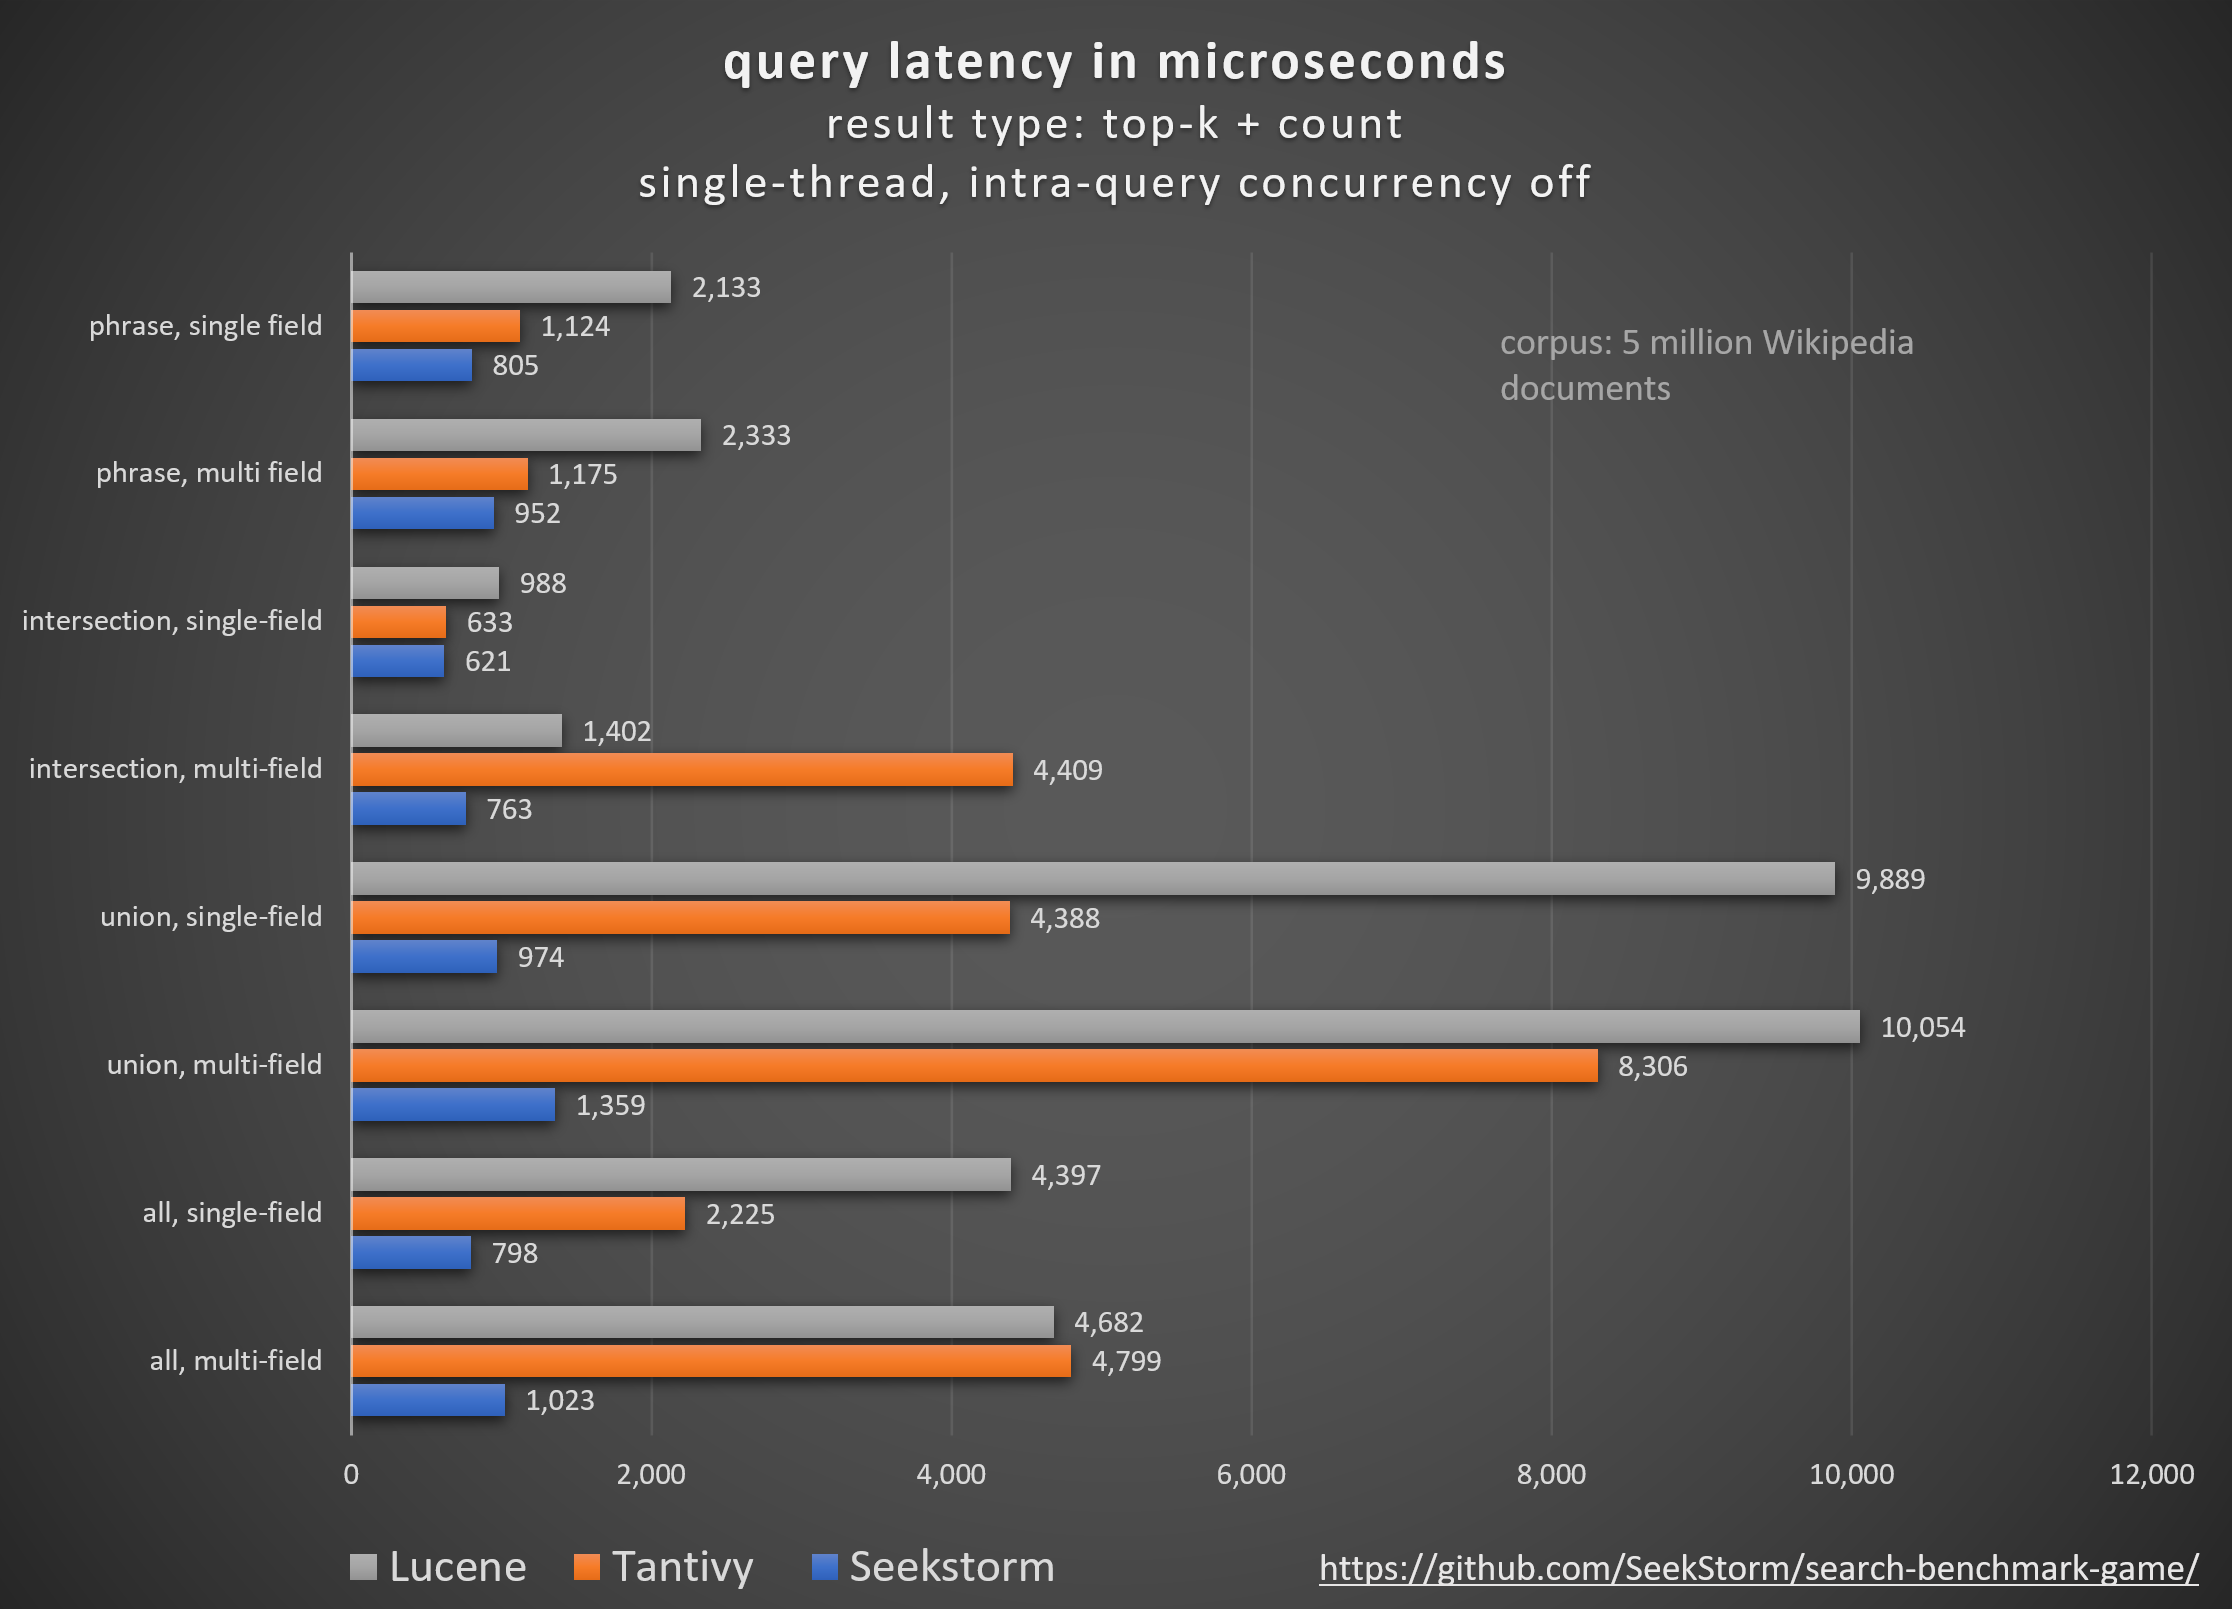
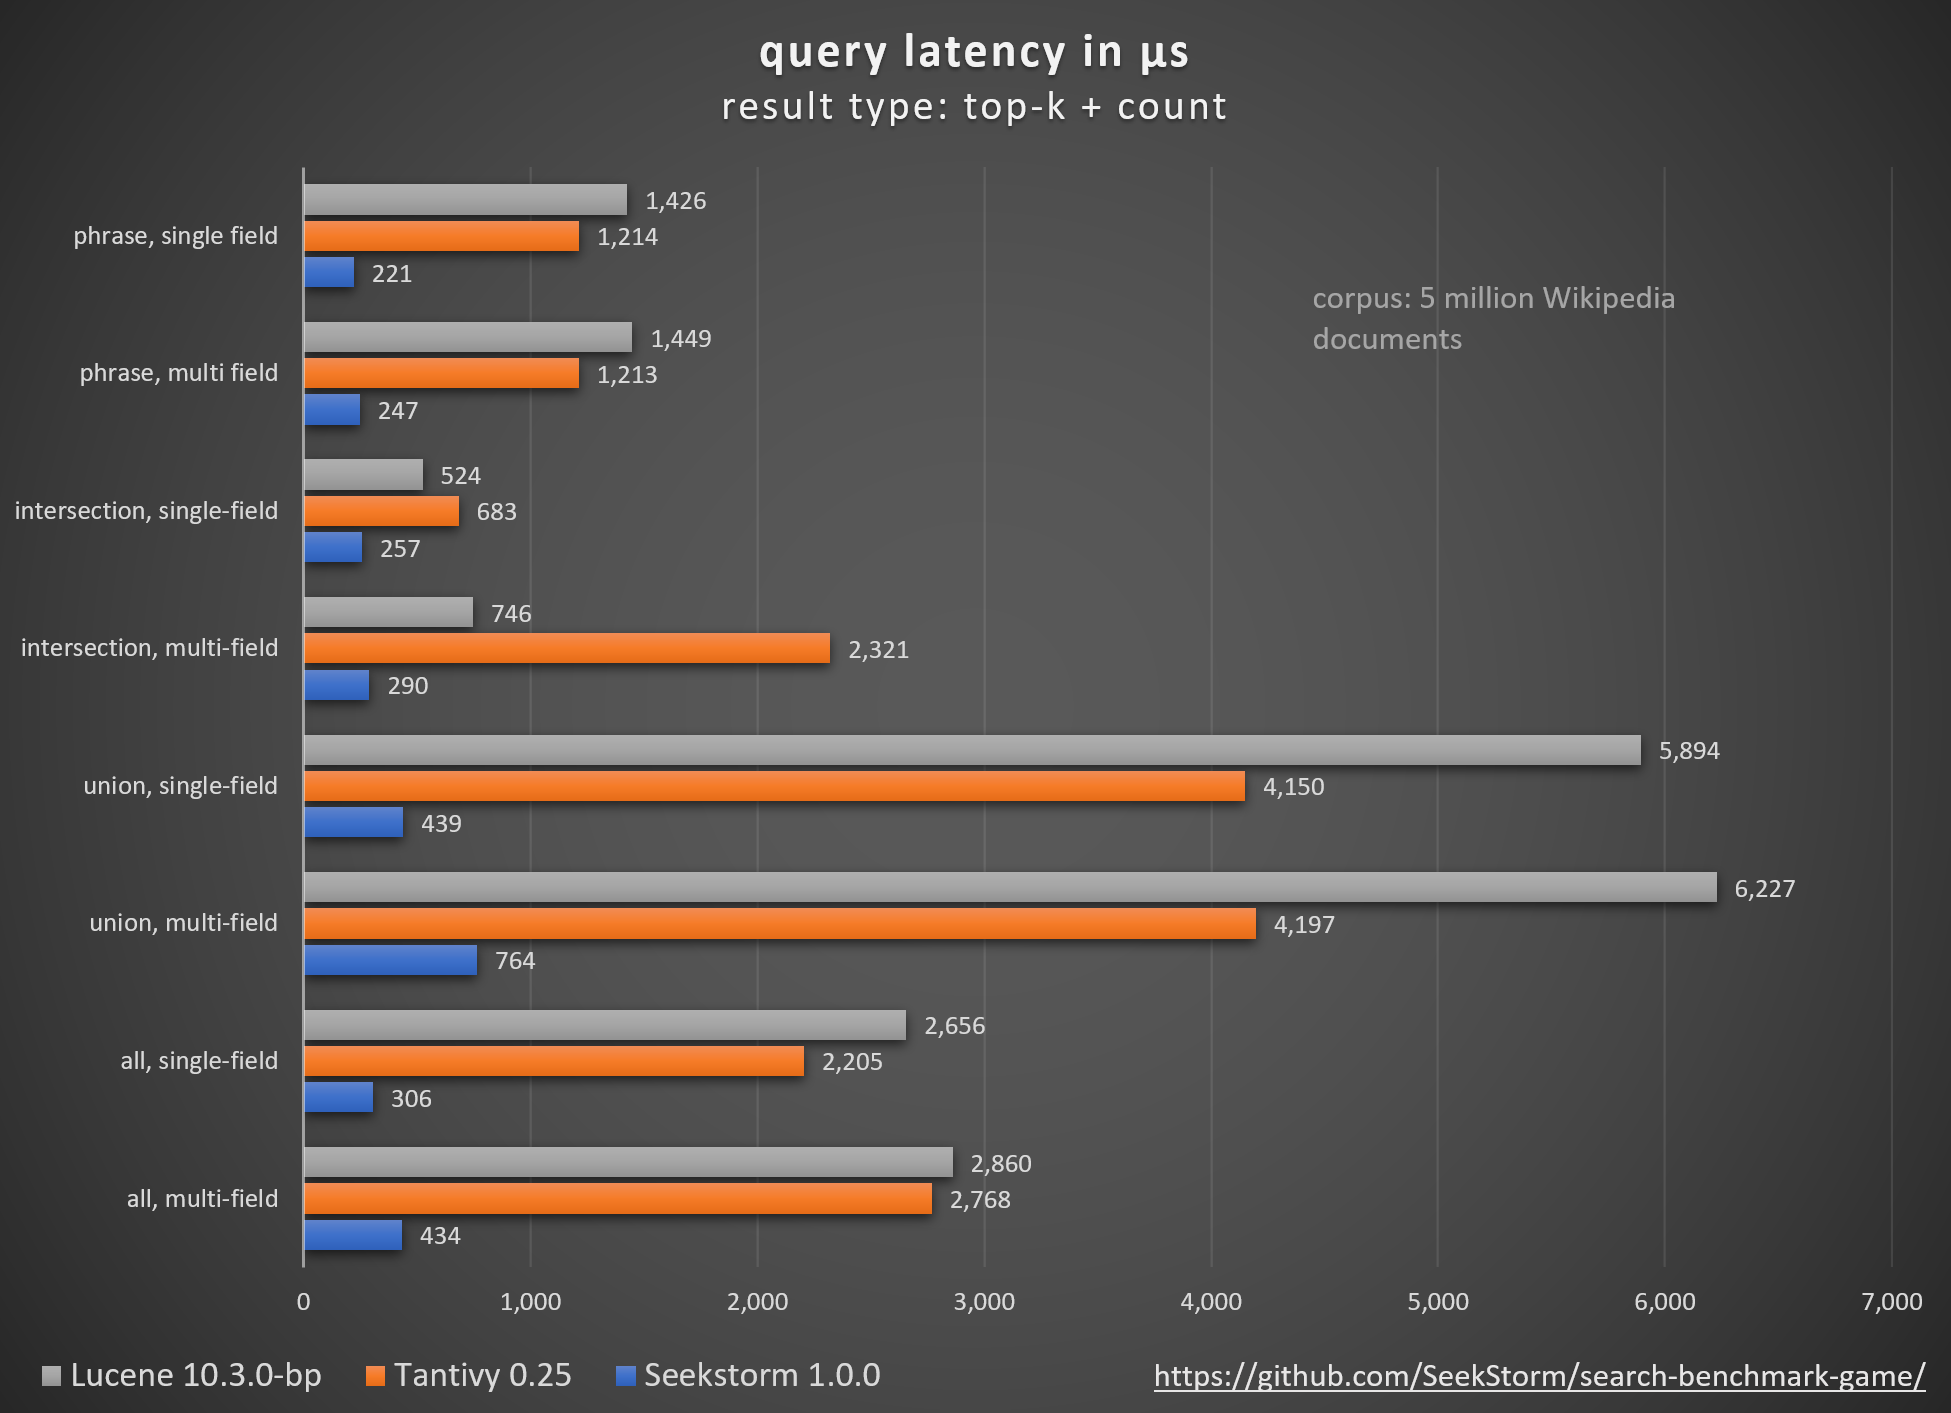
benchmark results updated

diff --git a/search-benchmark-game/README.md b/search-benchmark-game/README.md
@@ -16,6 +16,9 @@ Open-source search engine libraries (BM25 lexical search) are compared using the
 <img src="../assets/search_benchmark_game2.png" width="900" alt="Benchmark">
 <br>
 <br>
+<img src="../assets/search_benchmark_game3.png" width="900" alt="Benchmark">
+<br>
+<br>
 
 ### Multi field search vs. single field search
 
@@ -37,6 +40,11 @@ Btw., concatenating both fields before indexing is not a viable solution because
 
 ### About the results
 
-Results will vary, depending on your hardware, OS, concurrent OS activity, JVM, evironment temperature, query set, document corpus...
+This benchmark is not meant to be a leaderboard, but when every library is "lightning-fast" or  "blazingly fast", it is interesting to see how they stack up against each other. That is helpful not only for the users, 
+but also for the developers to assess unused optimization potential.
+
+Results will vary - depending on your hardware, OS, concurrent OS activity, JVM, environment temperature, query set, and document corpus...
 
 Before making any decisions, you should always replicate the tests on your infrastructure for your specific workload.
+
+Query latency is only one aspect of search - relevancy, functionality, scalability, and ease of use are equally important.

diff --git a/README.md b/README.md
@@ -16,6 +16,9 @@ Open-source search engine libraries (BM25 lexical search) are compared using the
 <img src="assets/search_benchmark_game2.png" width="900" alt="Benchmark">
 <br>
 <br>
+<img src="assets/search_benchmark_game3.png" width="900" alt="Benchmark">
+<br>
+<br>
 
 ### Multi field search vs. single field search
 
@@ -37,7 +40,12 @@ Btw., concatenating both fields before indexing is not a viable solution because
 
 ### About the results
 
-Results will vary, depending on your hardware, OS, concurrent OS activity, JVM, evironment temperature, query set, document corpus...
+This benchmark is not meant to be a leaderboard, but when every library is "lightning-fast" or  "blazingly fast", it is interesting to see how they stack up against each other. That is helpful not only for the users, 
+but also for the developers to assess unused optimization potential.
+
+Results will vary - depending on your hardware, OS, concurrent OS activity, JVM, environment temperature, query set, and document corpus...
 
 Before making any decisions, you should always replicate the tests on your infrastructure for your specific workload.
+
+Query latency is only one aspect of search - relevancy, functionality, scalability, and ease of use are equally important.
 
